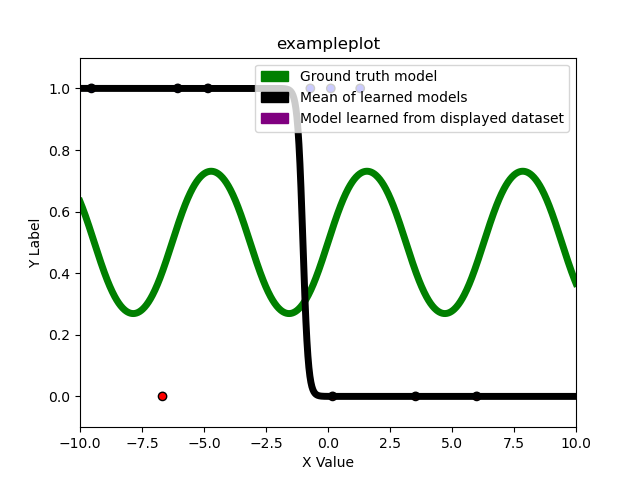
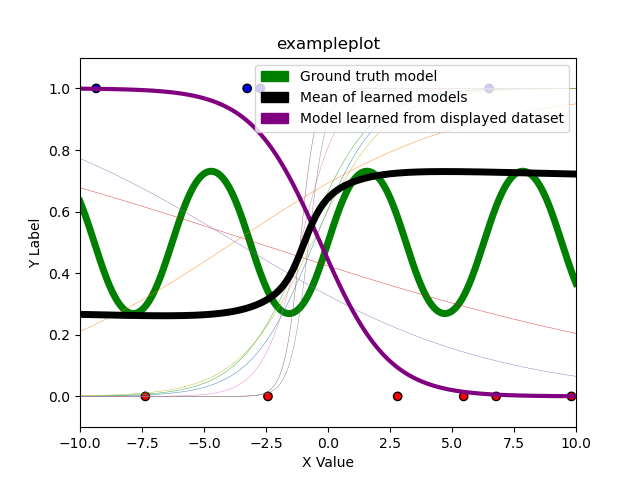
problem 1

diff --git a/hw2/T2_P1.py b/hw2/T2_P1.py
@@ -33,13 +33,12 @@ class LogisticRegressor:
         self.eta = eta
         self.runs = runs
 
-    # NOTE: Just to show how to make 'private' methods
     def __calculateError(self, x, y):
-        e = 0
-        for y_i, y_hat, x_i in zip(self.predict(y), y, x):
-            e += (y_i - y_hat) * x_i[0]
-        #print("e: " + str(e))
-        return 1
+        gradient = np.zeros((x.shape[1], 1))
+        for y_i, y_hat, x_i in zip(y, self.predict(x), x):
+            error = np.array([((y_i - y_hat) * x_i)])
+            gradient = gradient + error.T    
+        return gradient / len(x)
 
     # TODO: Optimize w using gradient descent
     def fit(self, x, y, w_init=None):
@@ -49,14 +48,15 @@ class LogisticRegressor:
         else:
             self.W = np.random.rand(x.shape[1], 1)
         for i in range(self.runs):
-            self.W = self.W - self.eta * self.__calculateError(x, y)
+            #print ("x:" + str(x))
             #print("W: " + str(self.W))
+            self.W = self.W + (self.eta * self.__calculateError(x, y))
 
     # TODO: Fix this method!
     def predict(self, x):
         #print ("x:" + str(x))
         #print("W: " + str(self.W))
-        return np.dot(x, self.W.T)
+        return sigmoid(np.dot(x, self.W))
 
 # Function to visualize prediction lines
 # Takes as input last_x, last_y, [list of models], basis function, title
@@ -129,3 +129,19 @@ if __name__ == "__main__":
         all_models.append(model)
     # Here x and y contain last dataset:
     visualize_prediction_lines(x, y, all_models, basis1, "exampleplot")
+    all_models = []
+    for _ in range(10):
+        x, y = generate_data(N)
+        x_transformed = basis2(x)
+        model = LogisticRegressor(eta=eta, runs=runs)
+        model.fit(x_transformed, y)
+        all_models.append(model)
+    visualize_prediction_lines(x, y, all_models, basis2, "basis2")
+    all_models = []
+    for _ in range(10):
+        x, y = generate_data(N)
+        x_transformed = basis3(x)
+        model = LogisticRegressor(eta=eta, runs=runs)
+        model.fit(x_transformed, y)
+        all_models.append(model)
+    visualize_prediction_lines(x, y, all_models, basis3, "basis3")
